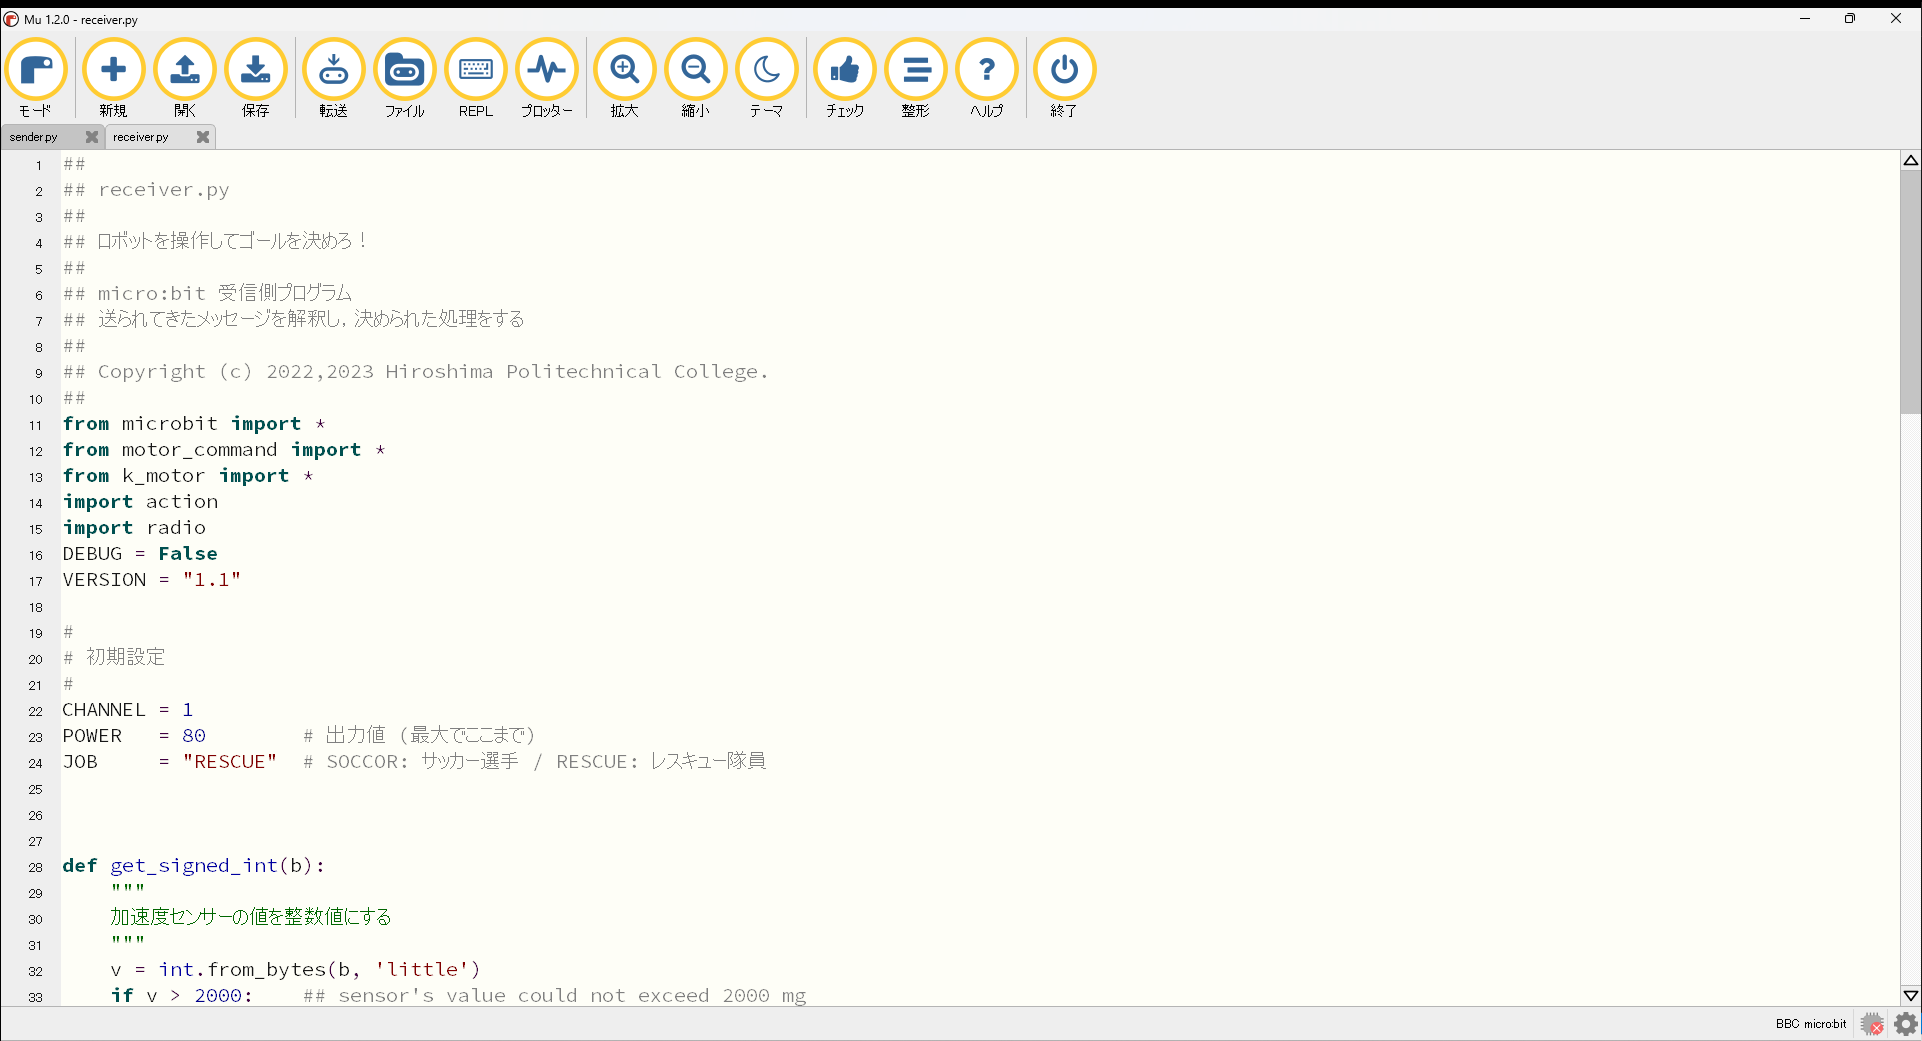
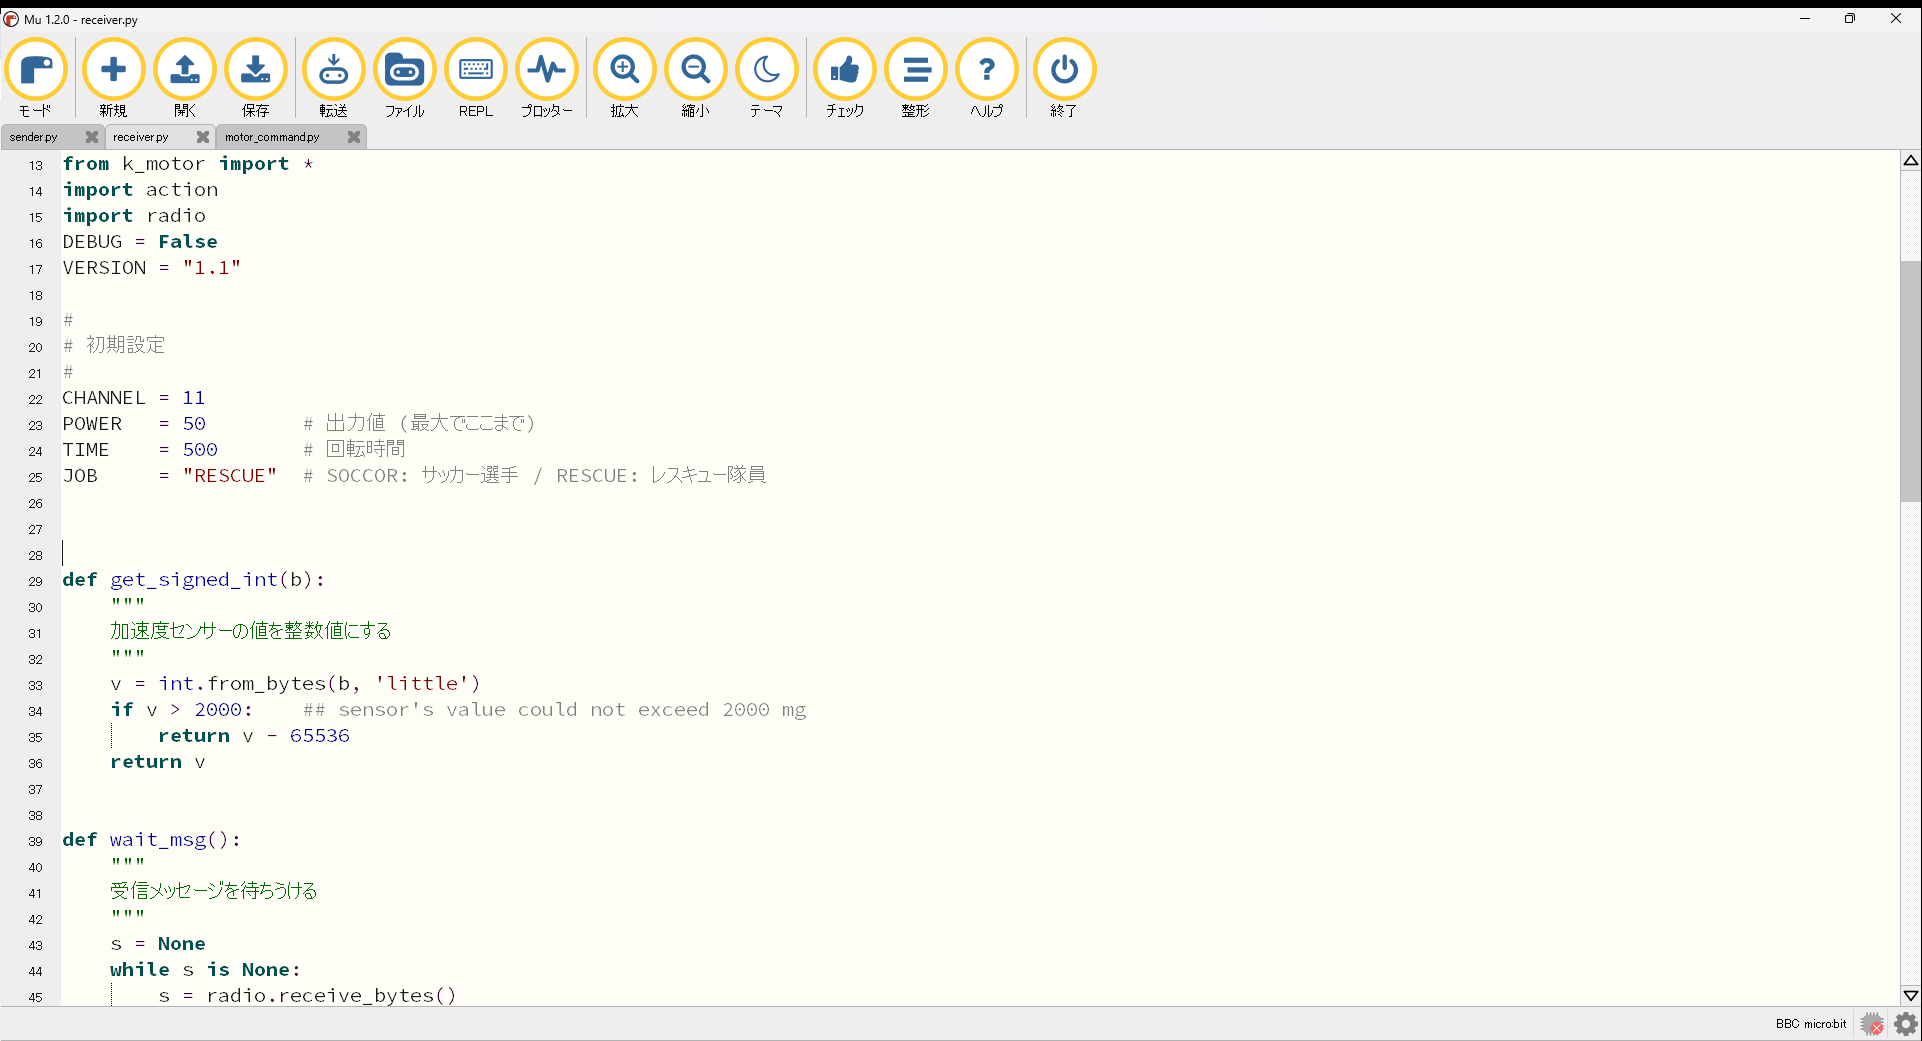
updated receiver.

diff --git a/receiver/receiver.py b/receiver/receiver.py
@@ -16,14 +16,14 @@ import radio
 DEBUG = False
 VERSION = "1.1"
 
-#
+#------------------------------------------------------------
 # 初期設定
-#
+# - CHANNEL を自分のロボの番号に変更する
+#------------------------------------------------------------
 CHANNEL = 1
-POWER   = 80        # 出力値 (最大でここまで)
+POWER   = 40        # モーターの出力値 (0 ~ 100 %)
+TIME    = 500       # その場での回転時間 (ミリ秒)
 JOB     = "RESCUE"  # SOCCOR: サッカー選手 / RESCUE: レスキュー隊員
-
-
 
 def get_signed_int(b):
     """
@@ -80,9 +80,9 @@ while True:
 
     bt = msg[0]
     if bt == 0xba:      # A ボタン
-        rotate_left(r)
+        rotate_left(r, TIME)
     elif bt == 0xbb:    # B ボタン
-        rotate_right(r)
+        rotate_right(r, TIME)
     elif bt == 0xbc:    # A＋B ボタン
         action()
         flush()
